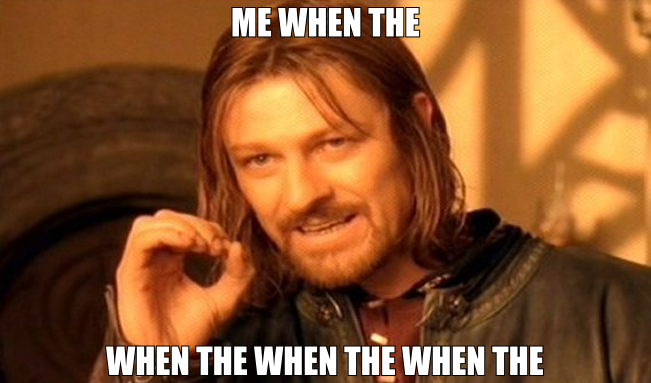
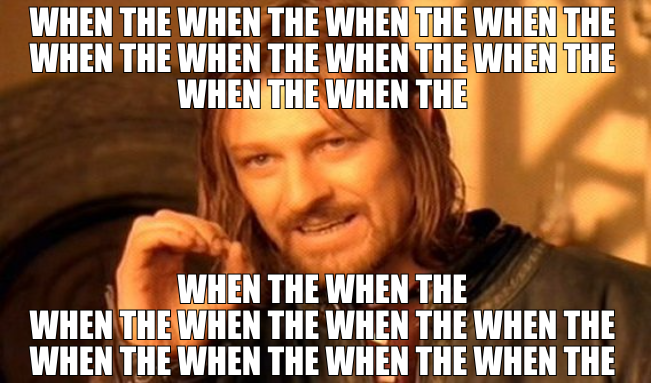
Implement text wrap

Changed region(s): [[0.0307, 0.0, 0.9524, 0.2872], [0.0307, 0.6893, 0.9524, 1.0]]

diff --git a/apps/meme-image/src/drawText.ts b/apps/meme-image/src/drawText.ts
@@ -1,0 +1,106 @@
+import { Canvas, CanvasRenderingContext2D, Image } from "canvas";
+
+const MAX_LINE = 3;
+const FONT_SIZE = 36;
+
+export function drawText(
+  image: Image,
+  canvas: Canvas,
+  text0: string,
+  text1: string
+) {
+  const ctx = canvas.getContext("2d");
+  ctx.drawImage(image, 0, 0);
+  ctx.fillStyle = "white";
+  ctx.lineWidth = 2;
+  ctx.strokeStyle = "black";
+
+  // top text
+  let fontSize = FONT_SIZE;
+  let lines = wrapText(ctx, text0, image.naturalWidth, fontSize);
+  while (lines.length > MAX_LINE) {
+    fontSize -= 4;
+    lines = wrapText(ctx, text0, image.naturalWidth, fontSize);
+  }
+  lines.forEach((line, index) => {
+    const [text, x] = line;
+    const y = (index + 1) * fontSize;
+    ctx.strokeText(text, x, y);
+    ctx.fillText(text, x, y);
+  });
+
+  // bottom text
+  fontSize = FONT_SIZE;
+  lines = wrapText(ctx, text1, image.naturalWidth, fontSize);
+  while (lines.length > MAX_LINE && fontSize > 4) {
+    fontSize -= 4;
+    lines = wrapText(ctx, text1, image.naturalWidth, fontSize);
+  }
+  lines.forEach((line, index) => {
+    const [text, x] = line;
+    const y = image.naturalHeight - index * fontSize - 8;
+    ctx.strokeText(text, x, y);
+    ctx.fillText(text, x, y);
+  });
+  // const td0 = ctx.measureText(text0);
+  // const tw0 = td0.width;
+  // const th0 = td0.actualBoundingBoxAscent + td0.actualBoundingBoxDescent;
+  // const mx0 = Math.floor((image.naturalWidth - tw0) / 2);
+  // const x0 = mx0;
+  // const y0 = th0 + 8;
+  // ctx.strokeText(text0, x0, y0);
+  // ctx.fillText(text0, x0, y0);
+
+  // const td1 = ctx.measureText(text1);
+  // const tw1 = td1.width;
+  // const mx1 = Math.floor((image.naturalWidth - tw1) / 2);
+  // const x1 = mx1;
+  // const y1 = image.height - 8;
+  // ctx.strokeText(text1, x1, y1);
+  // ctx.fillText(text1, x1, y1);
+}
+
+function wrapText(
+  ctx: CanvasRenderingContext2D,
+  text: string,
+  maxWidth: number,
+  fontSize: number
+) {
+  // First, start by splitting all of our text into words, but splitting it into an array split by spaces
+  const words = text.split(" ");
+  let line = ""; // This will store the text of the current line
+  let testLine = ""; // This will store the text when we add a word, to test if it's too long
+  const lineArray = []; // This is an array of lines, which the function will return
+  ctx.font = `${fontSize}px Impact`;
+
+  // Lets iterate over each word
+  for (let i = 0; i < words.length; i++) {
+    // Create a test line, and measure it..
+    testLine += `${words[i]} `;
+    const metrics = ctx.measureText(testLine);
+    const testWidth = metrics.width;
+    // If the width of this test line is more than the max width
+    if (i === 0 || testWidth <= maxWidth) {
+      // If the test line is still less than the max width, then add the word to the current line
+      line += `${words[i]} `;
+    } else {
+      // Then the line is finished, push the current line into "lineArray"
+      const lineWidth = ctx.measureText(line).width;
+      const mx = (maxWidth - lineWidth) / 2; // center x
+      lineArray.push([line, mx] as const);
+      // Increase the line height, so a new line is started
+      // y += fontSize;
+      // Update line and test line to use this word as the first word on the next line
+      line = `${words[i]} `;
+      testLine = `${words[i]} `;
+    }
+    // If we never reach the full max width, then there is only one line.. so push it into the lineArray so we return something
+    if (i === words.length - 1) {
+      const lineWidth = ctx.measureText(line).width;
+      const mx = (maxWidth - lineWidth) / 2; // center x
+      lineArray.push([line, mx] as const);
+    }
+  }
+  // Return the line array
+  return lineArray;
+}

diff --git a/apps/meme-image/src/app.ts b/apps/meme-image/src/app.ts
@@ -5,6 +5,7 @@ import { initServer, createExpressEndpoints } from "@ts-rest/express";
 
 import fs from "fs";
 import { createCanvas, loadImage, registerFont } from "canvas";
+import { drawText } from "./drawText";
 
 // https://code-boxx.com/nodejs-add-text-to-image/
 
@@ -23,40 +24,12 @@ const router = s.router(contract, {
   captionImage: async ({ body }) => {
     const load_path = `./src/template/${body.template}.png`;
     const image = await loadImage(load_path);
-
+    const canvas = createCanvas(image.width, image.height);
     const text0 = body.text0.toUpperCase();
     const text1 = body.text1.toUpperCase();
-    const canvas = createCanvas(image.width, image.height);
-    const ctx = canvas.getContext("2d");
-    ctx.drawImage(image, 0, 0);
-    ctx.font = "36px Impact";
-    ctx.fillStyle = "white";
-    ctx.lineWidth = 2;
-    ctx.strokeStyle = "black";
+    drawText(image, canvas, text0, text1);
 
-    const td0 = ctx.measureText(text0);
-    const tw0 = td0.width;
-    const th0 = td0.actualBoundingBoxAscent + td0.actualBoundingBoxDescent;
-
-    const mx0 = Math.floor((image.naturalWidth - tw0) / 2);
-    // const my = Math.floor((image.naturalHeight - th) / 2);
-
-    const x0 = mx0;
-    const y0 = th0 + 8;
-    ctx.strokeText(text0, x0, y0);
-    ctx.fillText(text0, x0, y0);
-
-    const td1 = ctx.measureText(text1);
-    const tw1 = td1.width;
-
-    const mx1 = Math.floor((image.naturalWidth - tw1) / 2);
-
-    const x1 = mx1;
-    const y1 = image.height - 8;
-    ctx.strokeText(text1, x1, y1);
-    ctx.fillText(text1, x1, y1);
-
-    const save_path = `./src/images/1.png`;
+    const save_path = `./src/images/${body.template}.png`;
     const out = fs.createWriteStream(save_path);
     const stream = canvas.createPNGStream();
     stream.pipe(out);
